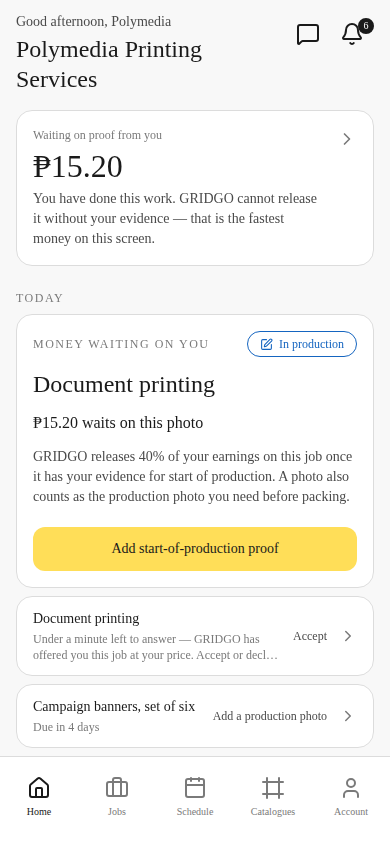
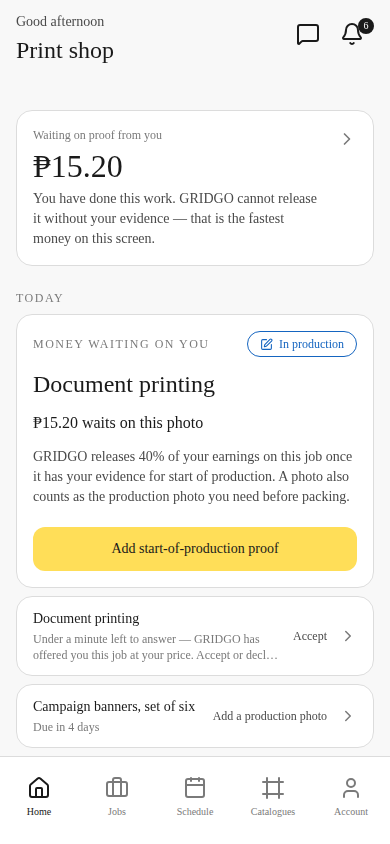
Say already paid only for a known in-app or voucher payment; redact the shop name in an older PR shot

Changed region(s): [[0.0308, 0.0, 0.5231, 0.1232]]

diff --git a/app/__tests__/expressCounterCode.test.tsx b/app/__tests__/expressCounterCode.test.tsx
@@ -74,6 +74,7 @@ describe("counter code entry", () => {
 
   /** gridgo-supplier#269: the screen's own pad, so the boxes are never under the keyboard. */
   it("takes the code from the number pad and hands over on the sixth digit", async () => {
+    (api.getOrder as jest.Mock).mockResolvedValue({ ...ready, paymentMethod: "qr_manual" });
     (api.enterCounterCode as jest.Mock).mockResolvedValue(undefined);
     const view = await render(<CounterCodeScreen />);
     const input = await screen.findByTestId("counter-code-input");
@@ -87,6 +88,13 @@ describe("counter code entry", () => {
     await fireEvent.press(screen.getByTestId("number-pad-9"));
     expect(api.enterCounterCode).toHaveBeenCalledWith("ord_x", "482119");
     expect(await screen.findByTestId("counter-code-done")).toBeTruthy();
+    await view.unmount();
+  });
+
+  it("never says already paid when the method is unknown", async () => {
+    const view = await render(<CounterCodeScreen />);
+    await screen.findByTestId("counter-code-input");
+    expect(screen.queryByTestId("counter-code-paid")).toBeNull();
     await view.unmount();
   });
 

diff --git a/lib/todo.ts b/lib/todo.ts
@@ -42,11 +42,13 @@ export function paymentLine(order: Pick<Order, "paymentMethod" | "payments">): s
 }
 
 /**
- * Nothing to collect at the counter. Cash is delivery-only and goes to the
- * rider, so a client collecting here has always paid.
+ * Nothing to collect at the counter: only when GRIDGO says the client paid in
+ * the app or by voucher. A missing or unknown method says nothing, because
+ * "Don't collect cash" on a guess could cost the shop the job's money.
  */
 export function alreadyPaidAtCounter(order: Pick<Order, "paymentMethod" | "payments">): boolean {
-  return paymentKind(order) !== "cash";
+  const kind = paymentKind(order);
+  return kind === "in_app" || kind === "voucher";
 }
 
 /* -------------------------------------------------------------------------- */

diff --git a/lib/__tests__/todo.test.ts b/lib/__tests__/todo.test.ts
@@ -57,6 +57,12 @@ describe("how the client paid", () => {
   it("only cash is collected; everything else is already paid at the counter", () => {
     expect(alreadyPaidAtCounter(express())).toBe(true);
     expect(alreadyPaidAtCounter(regular())).toBe(false);
+    expect(alreadyPaidAtCounter(express({ payments: { initial: { method: "gridgo_voucher" } } } as never))).toBe(true);
+  });
+
+  it("never says already paid when the method is missing or unknown", () => {
+    expect(alreadyPaidAtCounter(express({ paymentMethod: null, payments: {} } as never))).toBe(false);
+    expect(alreadyPaidAtCounter(express({ paymentMethod: "something_new", payments: { initial: { method: "something_new" } } } as never))).toBe(false);
   });
 });
 
